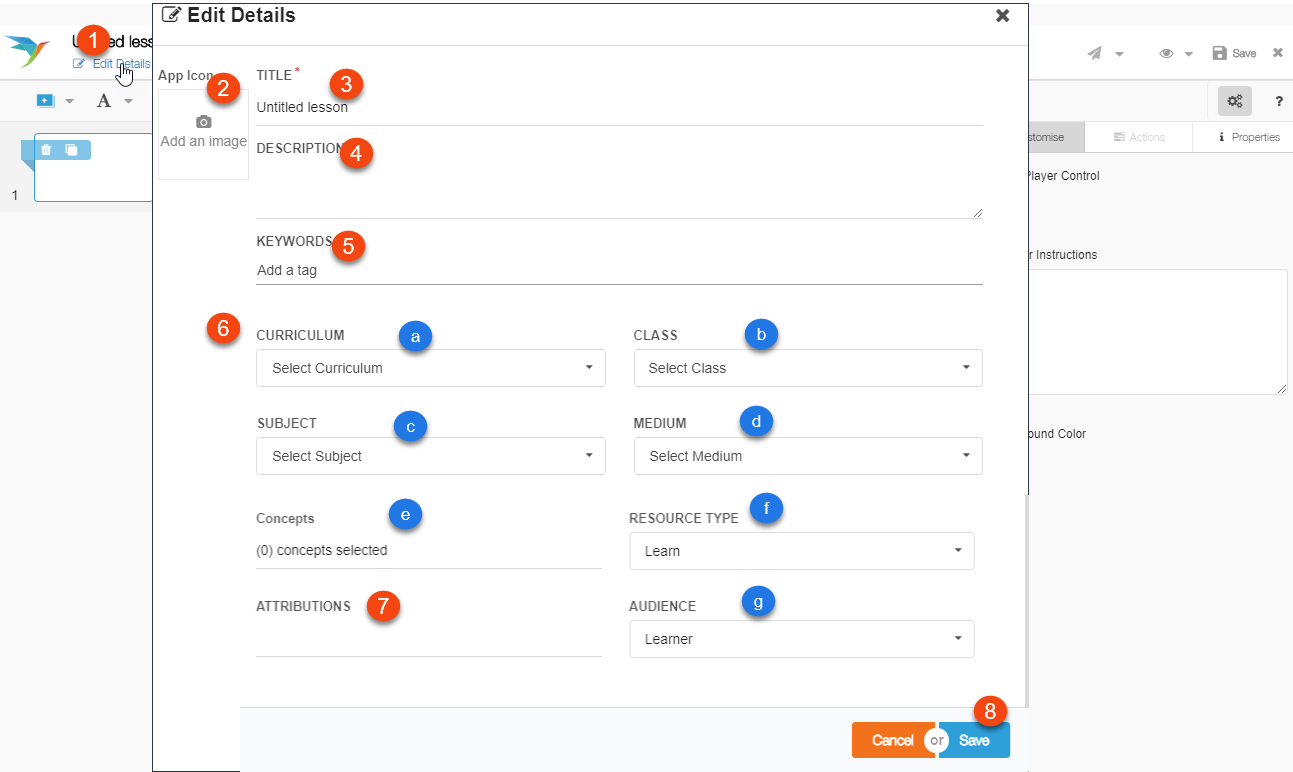
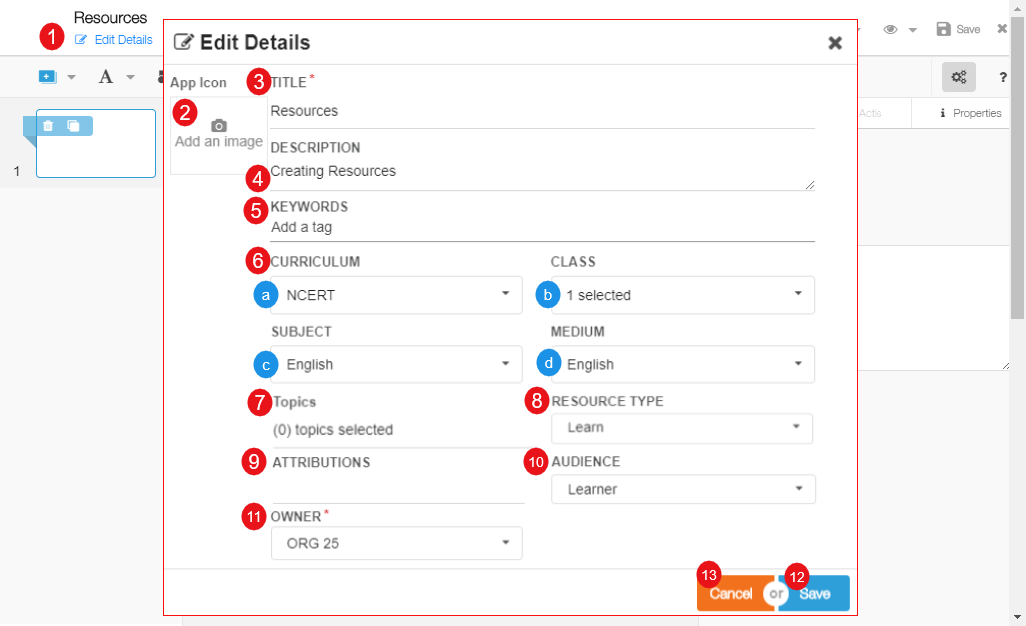
SB-7587

diff --git a/features-documentation/resource_creation.md b/features-documentation/resource_creation.md
@@ -31,13 +31,16 @@ This page details the procedure of creating resources on Sunbird.
     <th style="width:65%;">Screen</th>
   </tr>
   <tr>
-    <td>1. You are logged in <br>2. You are currently on <b>My Workspace</b> page <br>3. You want to create resources, you have clicked the <b>Resource</b> tile
+    <td>1. You are logged in 
+    <br>2. You are currently on <b>My Workspace</b> page 
+    <br>3. You want to create resources, you have clicked the <b>Resource</b> tile
       </td>
       <td><img src="features-documentation/images/resource/resource_prerequisite.png"></td>
   </tr>
   </table>
   
 ### Creating Resources
+
 <table>
   <tr>
     <th style="width:35%;">Step</th>
@@ -45,47 +48,45 @@ This page details the procedure of creating resources on Sunbird.
   </tr>  
   <tr>
     <td>1. Enter <b>Name</b> of the resource 
-      <br>2.Select the following from their respective dropdown menus: 
-      <br>&emsp;a) <b>Board</b>
-      <br>&emsp;b) <b>Grade</b> 
-      <br>&emsp;c) <b>Subject</b> 
-      <br>&emsp;d) <b>Medium</b> 
-      <br>&emsp;e) <b>Concept</b>. Refer <a href="features-documentation/concept_selector" target="_blank">Concept Selector</a>
-      <br>&emsp;f) <b>Resource Type</b>
-      <br>3. Click <b>Start Creating</b> 
+    <br>2. Click <b>Start Creating</b> 
       <br><b>Note</b>: These details can also be filled in later when updating the resource details before sending it for review
     </td>
     <td><img src="features-documentation/images/resource/resource_create.png"></td>
   </tr>
   </table>
-  
+
 ### Content Editor
+
 Sunbird provides an inbuilt content editor to create engaging and innovative content. For details on how to create resource using the content editor, refer <a href="features-documentation/contenteditor" target="_blank">Content Editor</a>
   
 ### Editing Resource Details
-Once the resource is created, using the content editor, all details pertaining to the resource must be updated before sending the resource for review.
+
 <table>
   <tr>
     <th style="width:35%;">Step</th>
     <th style="width:65%;">Screen</th>
-  </tr>  
+  </tr>
   <tr>
-    <td>1. Click <b>Edit Details</b> <br>2. Click the camera icon to add an image <br><b>Note</b>: For details, refer <a href="features-documentation/metadata_addingimages" target="_blank">Adding Image to Metadata</a> <br>3. Enter <b>Name</b> of the resource  <br>4. Enter <b>Description</b> of the resource 
-      <br>5. Enter <b>Keywords</b>. Keywords are ideas and topics that define content. Keywords aid in discovering content 
-      <br>6.Select the following from their respective dropdown menus: 
-      <br>&emsp;a) <b>Curriculum</b>
-      <br>&emsp;b) <b>Class</b> 
-      <br>&emsp;c) <b>Subject</b> 
-      <br>&emsp;d) <b>Medium</b> 
-      <br>&emsp;e) <b>Concept</b>. Refer <a href="features-documentation/concept_selector" target="_blank">Concept Selector</a> 
-      <br>&emsp;f) <b>Resource Type</b>
-      <br>&emsp;g) <b>Audience</b>  
-  <br>7. Enter <b>Attributions</b>, if any <br>8. Click <b>Save</b> to save all the details
+    <td>1. Click <b>Edit Details</b> to enter the course details 
+      <br>2. Click the camera icon to add an image <br><b>Note:</b> For details, refer <a href="features-documentation/metadata_addingimages" target="_blank">Adding Images to Metadata</a> 
+      <br>3. Enter <b>Title</b> of the course 
+      <br>4. Enter <b>Description</b> 
+      <br>5. Enter <b>Keywords</b> 
+      <br>6. Select the following from their respective drop-down lists: 
+      <br>&emsp;a) Curriculum 
+      <br>&emsp;b) Class 
+      <br>&emsp;c) Subject 
+      <br>&emsp;d) Medium 
+      <br>7. Select <b>Topic</b>
+      <br>8. Select <b>Attributions</b>
+      <br>9. Select <b>Audience</b> 
+      <br>10. Select <b>Owner</b> 
+      <br>11. Click <b>Save</b> to save the details 
+      <br>12. Click <b>Cancel</b> to exit the page
     </td>
     <td><img src="features-documentation/images/resource/resource_details.png"></td>
   </tr>
-  </table>
-
+ </table>
 
 ### Sending Resource for Review
 <table>

diff --git a/features-documentation/course_creation.md b/features-documentation/course_creation.md
@@ -51,11 +51,12 @@ allowSearch: true
         <br>2. On clicking child node, a heading is added to the <b>Table of Contents</b> pane 
         <br>3. Click <b>Add Resource</b> to add content. For details on adding resources, refer <a href="features-documentation/addingresources" target="_blank">Adding Resources</a>
       </td>
-      <td><img src="features-documentation/images/add_content0.png"></td>
+      <td><img src="features-documentation/images/course/add_content.png"></td>
   </tr>
    </table>
    
-### Adding or Editing Course Details
+### Editing Course Details
+
 <table>
   <tr>
     <th style="width:35%;">Step</th>
@@ -68,16 +69,36 @@ allowSearch: true
       <br>4. Enter <b>Description</b> 
       <br>5. Enter <b>Keywords</b> 
       <br>6. Select the following from their respective drop-down lists: 
-      <br>&emsp;a) Board 
+      <br>&emsp;a) Curriculum 
       <br>&emsp;b) Class 
       <br>&emsp;c) Subject 
       <br>&emsp;d) Medium 
-      <br>7. Select <b>Audience</b> 
-      <br>8. Enter <b>Attributions</b> <br>9. Click <b>Save</b> to save the details <br>10. Click <b>Cancel</b> to exit the page
+      <br>7. Select <b>Topic</b>
+      <br>8. Select <b>Attributions</b>
+      <br>9. Select <b>Audience</b> 
+      <br>10. Select <b>Owner</b> 
+      <br>11. Click <b>Save</b> to save the details 
+      <br>12. Click <b>Cancel</b> to exit the page
     </td>
-    <td><img src="features-documentation/images/add_details.png"></td>
+    <td><img src="features-documentation/images/course/course_metadata.png"></td>
   </tr>
  </table>
+
+### Viewing Contributor Details
+ 
+ <table>
+  <tr>
+    <th style="width:35%;">Step</th>
+    <th style="width:65%;">Screen</th>
+  </tr>
+  <tr><td>1. Click <b>Add Resource</b> to add resource to the Course, refer <a href="features-documentation/addingresources" target="_blank">Adding Resources</a>
+  <br>2. The resource is added to the Course
+  <br>3. The names of the resource owners appears under <b>Created with Contributions From</b> button
+  </td>
+  <td><img src="features-documentation/images/book/contributors.png">
+  </td>
+  </tr>
+ </table> 
  
 ### Heading Details
    <table>
@@ -91,7 +112,7 @@ allowSearch: true
     <br>3. Select the <b>Concepts</b> associated with the heading. Refer <a href="features-documentation/concept_selector" target="_blank">Concept Selector</a>
     <br>4. Enter <b>Keywords</b>
     </td>
-    <td><img src="features-documentation/images/add_content1.png"></td>
+    <td><img src="features-documentation/images/course/add_content1.png"></td>
   </tr>
   </table> 
   
@@ -101,7 +122,7 @@ The Table of Contents tree seen in the left pane is used to navigate content com
 <br>&emsp;a) The burger menu associated with a tree node 
 <br>&emsp;b) Right-click options associated with a tree node, **OR**
 <br>&emsp;c) Keyboard shortcuts 
-<br>For details on manipulating the tree and adding content, refer to the <a href="features-documentation/treestructure_toc" target="_blank">Exploring ToC Structure</a> page.
+<br>For details on manipulating the tree and adding content, refer to the <a href="features-documentation/treestructure_toc" target="_blank">Exploring ToC Structure</a> page
 
 ### Deleting Content 
 

diff --git a/features-documentation/lessonplan.md b/features-documentation/lessonplan.md
@@ -60,7 +60,7 @@ Lesson plan is a structured outline of a given topic, unit, chapter to be taught
   </tr>
   </table>
 
-### Adding Details
+### Editing Lesson Details
 
 <table>
   <tr>
@@ -86,6 +86,23 @@ Lesson plan is a structured outline of a given topic, unit, chapter to be taught
     <td><img src="features-documentation/images/lessonplan/edit_details.png"></td>
  </tr>
  </table>
+
+### Viewing Contributor Details
+ 
+  <table>
+  <tr>
+    <th style="width:35%;">Step</th>
+    <th style="width:65%;">Screen</th>
+  </tr>
+  <tr><td>1. Click <b>Add Resource</b> to add resource to the Lesson Plan, refer <a href="features-documentation/addingresources" target="_blank">Adding Resources</a>
+  <br>2. The resource is added to the Lesson Plan
+  <br>3. The names of the resource owners appears under <b>Created with Contributions From</b> button
+  </td>
+  <td><img src="features-documentation/images/book/contributors.png">
+  </td>
+  </tr>
+  </table>
+
 
 ## Working with Table of Contents 
 

diff --git a/features-documentation/book_creation.md b/features-documentation/book_creation.md
@@ -120,7 +120,7 @@ You can add various elements in the book like units or chapters, heading details
     
 ### Viewing Contributor Details
  
-<table>
+  <table>
   <tr>
     <th style="width:35%;">Step</th>
     <th style="width:65%;">Screen</th>
@@ -132,7 +132,7 @@ You can add various elements in the book like units or chapters, heading details
   <td><img src="features-documentation/images/book/contributors.png">
   </td>
   </tr>
-</table>
+  </table>
 
 #### Linking or Unlinking DIAL Code
 

diff --git a/features-documentation/collection_creation.md b/features-documentation/collection_creation.md
@@ -89,7 +89,7 @@ The collection is a compilation of content.	You can compile a  collection on Sun
   </tr>
   </table>
 
-### Adding or Editing Collection Details
+### Editing Collection Details
  
 <table>
   <tr>
